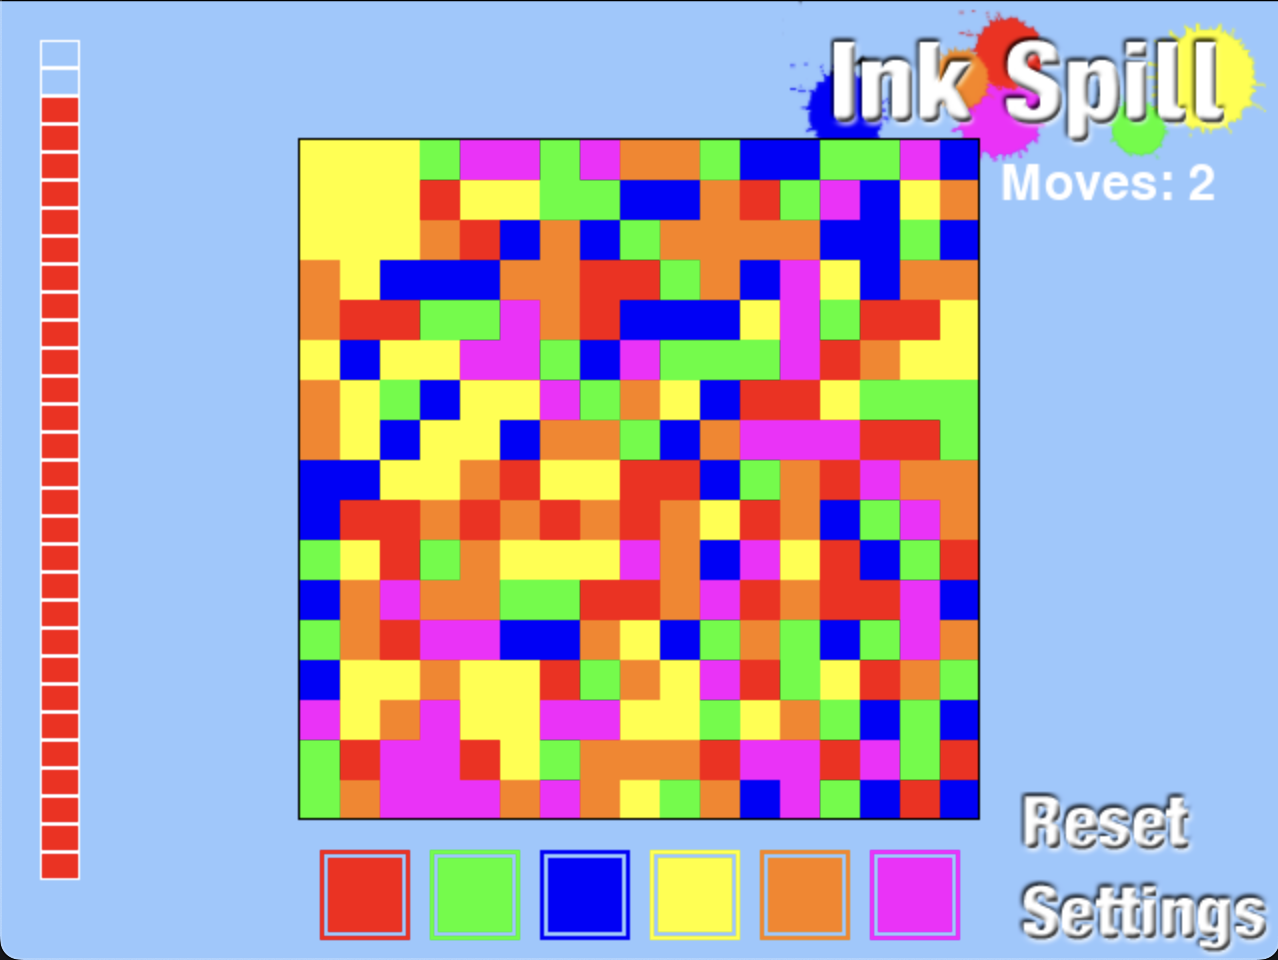
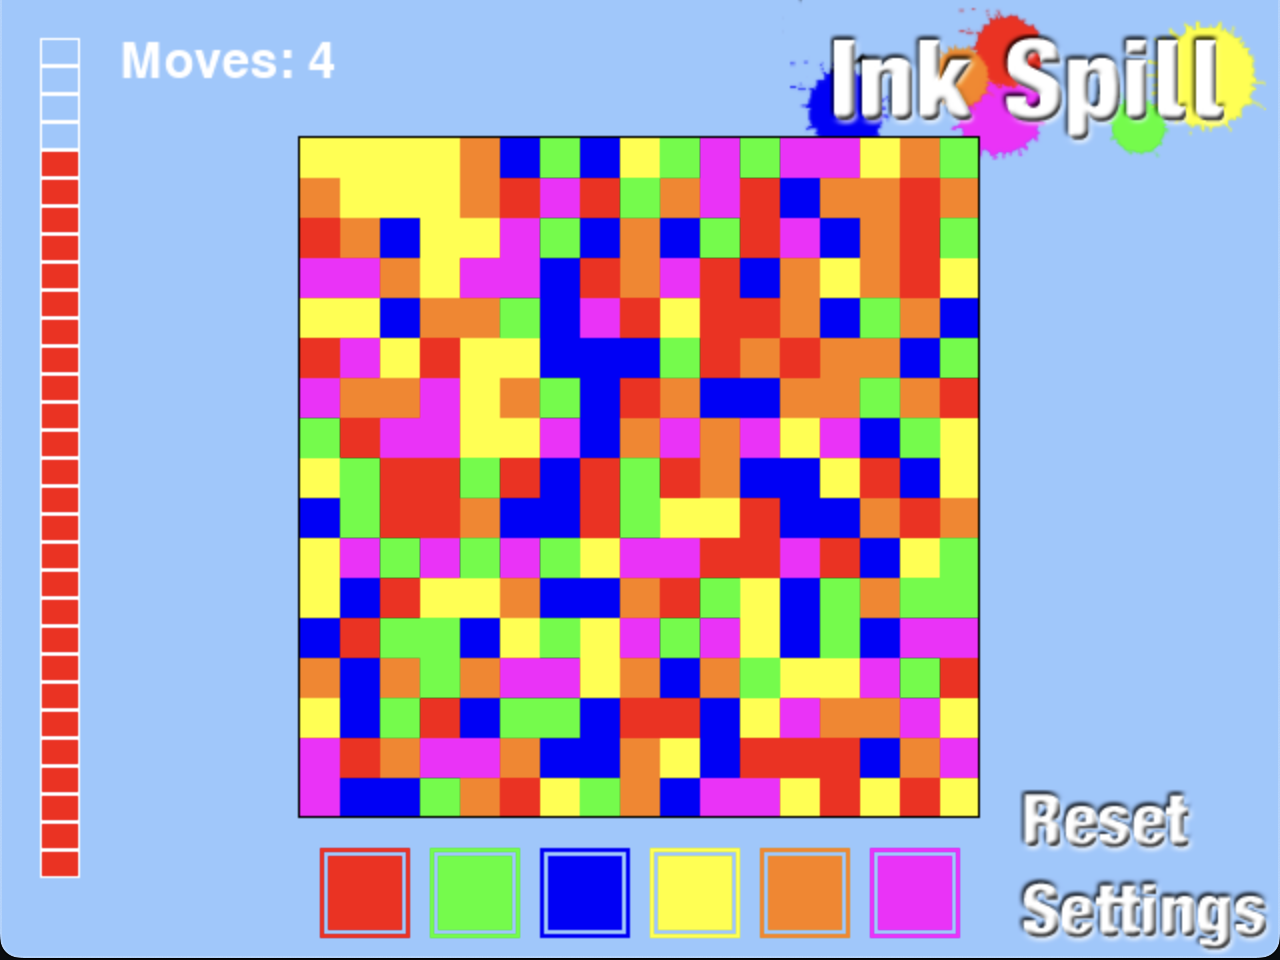
Solved task

diff --git a/inkspill.py b/inkspill.py
@@ -387,7 +387,7 @@ def drawMovesCount(movesCount):
     font = pygame.font.Font('freesansbold.ttf', 25)
     movesSurf = font.render('Moves: %s' % movesCount, True, WHITE)
     movesRect = movesSurf.get_rect()
-    movesRect.topleft = (WINDOWWIDTH - 140, 80)
+    movesRect.topleft = (60, 20)
     DISPLAYSURF.blit(movesSurf, movesRect)
 
 
